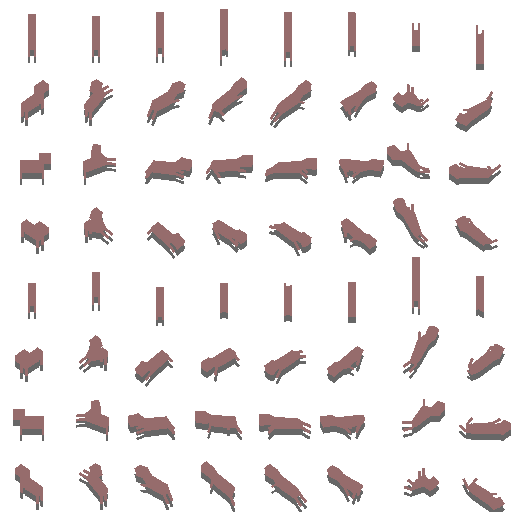
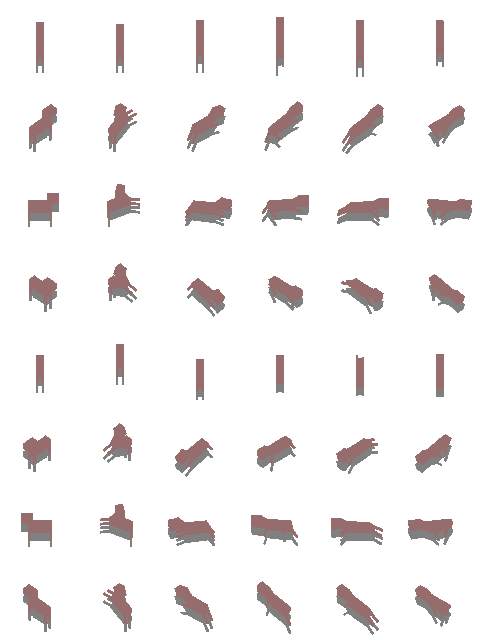
0.6.877

diff --git a/gamestream_flutter/lib/render/renderer_characters.dart b/gamestream_flutter/lib/render/renderer_characters.dart
@@ -93,6 +93,8 @@ class RendererCharacters extends Renderer {
 
 
   void renderCharacterDog(Character character){
+    const Src_Size = 80.0;
+    const Anchor_Y = 0.66;
 
     if (character.state == CharacterState.Idle){
       Engine.renderSprite(
@@ -100,10 +102,10 @@ class RendererCharacters extends Renderer {
         dstX: character.renderX,
         dstY: character.renderY,
         srcX: 0,
-        srcY: 64.0 * character.direction,
-        srcWidth: 64,
-        srcHeight: 64,
-        anchorY: 0.66,
+        srcY: Src_Size * character.direction,
+        srcWidth: Src_Size,
+        srcHeight: Src_Size,
+        anchorY: Anchor_Y,
         scale: 1,
         color: character.color,
       );
@@ -117,11 +119,11 @@ class RendererCharacters extends Renderer {
         image: GameImages.character_dog,
         dstX: character.renderX,
         dstY: character.renderY,
-        srcX: frame * 64.0,
-        srcY: 64.0 * character.direction,
-        srcWidth: 64,
-        srcHeight: 64,
-        anchorY: 0.66,
+        srcX: frame * Src_Size,
+        srcY: Src_Size * character.direction,
+        srcWidth: Src_Size,
+        srcHeight: Src_Size,
+        anchorY: Anchor_Y,
         scale: 1,
         color: character.color,
       );
@@ -140,11 +142,11 @@ class RendererCharacters extends Renderer {
         image: GameImages.character_dog,
         dstX: character.renderX,
         dstY: character.renderY,
-        srcX: frame * 64.0,
-        srcY: 64.0 * character.direction,
-        srcWidth: 64,
-        srcHeight: 64,
-        anchorY: 0.66,
+        srcX: frame * Src_Size,
+        srcY: Src_Size * character.direction,
+        srcWidth: Src_Size,
+        srcHeight: Src_Size,
+        anchorY: Anchor_Y,
         scale: 1,
         color: character.color,
       );
@@ -156,11 +158,11 @@ class RendererCharacters extends Renderer {
         image: GameImages.character_dog,
         dstX: character.renderX,
         dstY: character.renderY,
-        srcX: 64.0,
-        srcY: 64.0 * character.direction,
-        srcWidth: 64,
-        srcHeight: 64,
-        anchorY: 0.66,
+        srcX: Src_Size,
+        srcY: Src_Size * character.direction,
+        srcWidth: Src_Size,
+        srcHeight: Src_Size,
+        anchorY: Anchor_Y,
         scale: 1,
         color: character.color,
       );

diff --git a/bleed-common/lib/src/version.dart b/bleed-common/lib/src/version.dart
@@ -1,4 +1,4 @@
-const version = '0.6.876';
+const version = '0.6.877';
 
 
 

diff --git a/bleed-server/lib/common/src/version.dart b/bleed-server/lib/common/src/version.dart
@@ -1,4 +1,4 @@
-const version = '0.6.876';
+const version = '0.6.877';
 
 
 

diff --git a/gamestream_flutter/README.md b/gamestream_flutter/README.md
@@ -99,6 +99,7 @@ ctrl + w:   minimal mode
 [ ] fix physics knocked through walls
 
 13.01.2023
+[x] fix dog render animation
 [x] bullet impact nodes cause particles to emit
 [x] feature barrel struck audio
 [x] feature bullet struck audio
